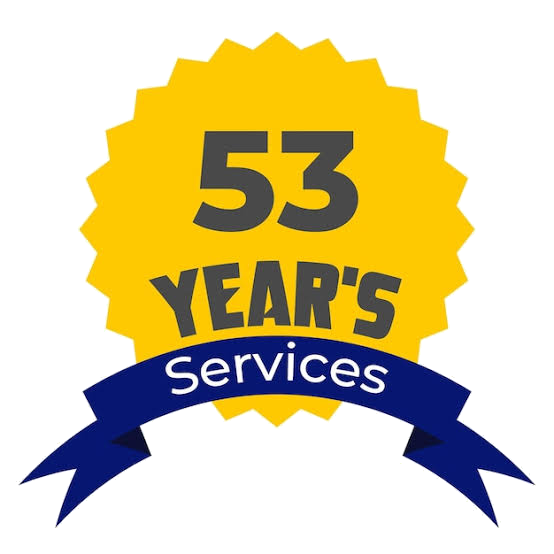
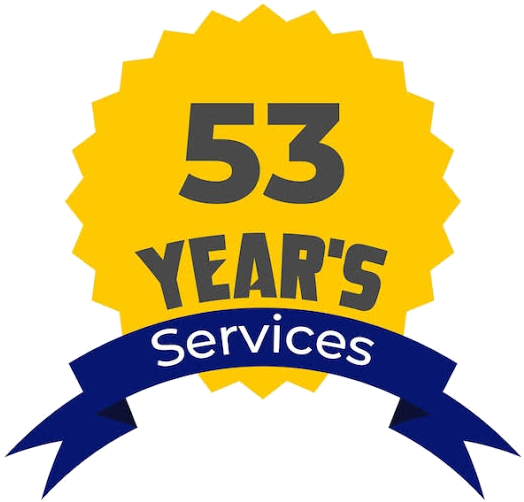
style: enlarge 53 years service badge and trim padding for optimal clarity

Changed region(s): [[0.0305, 0.0, 1.0, 1.0], [0.3359, 0.1793, 0.6718, 0.4183], [0.0, 0.8964, 0.0305, 0.9263]]

diff --git a/src/components/layout/Header.tsx b/src/components/layout/Header.tsx
@@ -38,16 +38,16 @@ export function Header() {
 
         {/* Right side: 53 Years Service Badge at TOP + smaller Dad Image touching bottom red bar */}
         <div className="flex shrink-0 items-stretch justify-end self-stretch gap-1.5 sm:gap-2.5 md:gap-3.5 pr-0 mr-0">
-          {/* 53 Years Service Logo - positioned at the top */}
-          <div className="flex shrink-0 items-start justify-center self-start pt-0.5 sm:pt-1">
+          {/* 53 Years Service Logo - enlarged for maximum clarity & legibility */}
+          <div className="flex shrink-0 items-start justify-center self-start pt-0.5">
             <Image
               src="/53years-service.png"
               alt="53 Years Services"
-              width={554}
-              height={554}
+              width={524}
+              height={502}
               priority
-              quality={95}
-              className="h-8 w-auto object-contain drop-shadow-2xs transition-transform duration-200 hover:scale-105 sm:h-10 md:h-12 lg:h-14"
+              quality={100}
+              className="h-11 w-auto object-contain drop-shadow-2xs transition-transform duration-200 hover:scale-105 sm:h-13 md:h-16 lg:h-18 xl:h-20"
             />
           </div>
 
